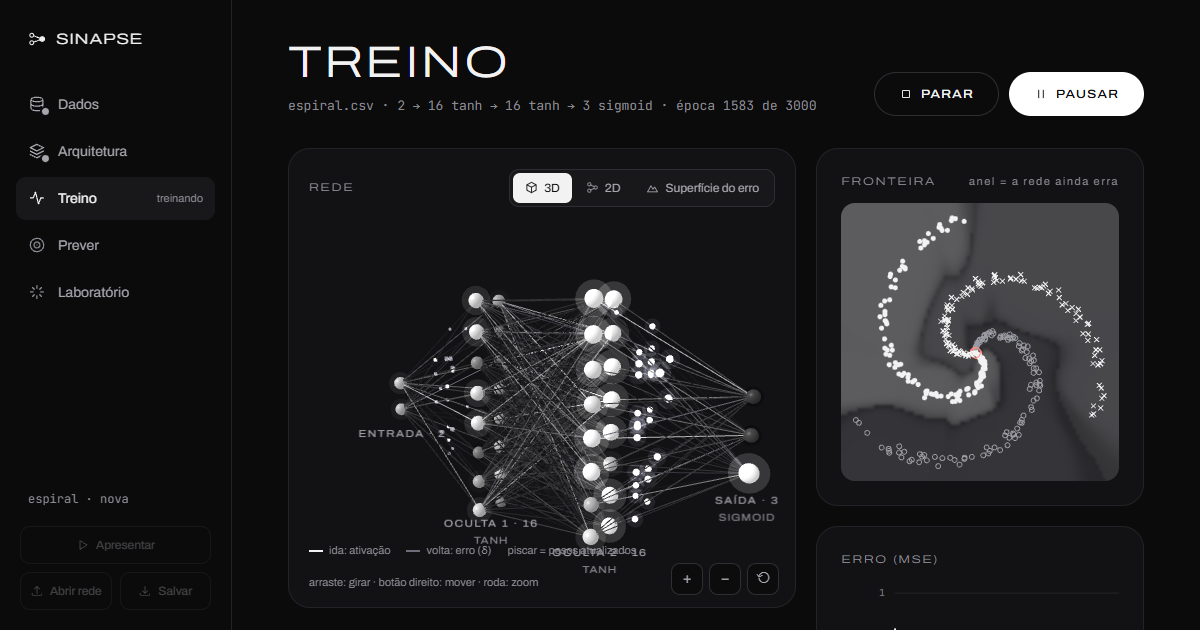
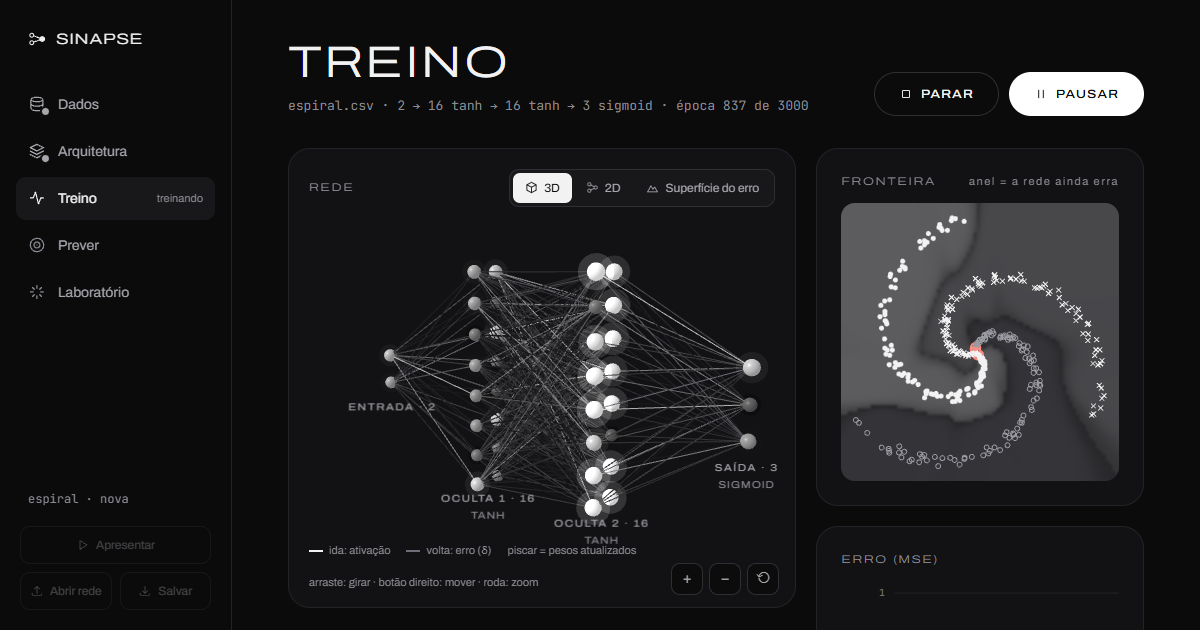
Ajustes antes de publicar: rótulos do 3D, segurança, ícone do iPhone e CSV grande
- 3D se encaixa acima da legenda (--stage-inset + setViewOffset): rótulos não ficam por cima
- vercel.json em public/ com CSP, nosniff, Referrer-Policy, Permissions-Policy e cache longo em /assets
- publicar.cmd com vercel@65.12.1 fixo
- apple-touch-icon 180x180
- CSV acima de 20 MB é recusado com aviso
- mini gráfico das execuções: escala certa quando o maior erro é 1
- og.png refeito com o 3D novo

diff --git a/src/ui/net3d.ts b/src/ui/net3d.ts
@@ -229,11 +229,26 @@ abstract class Stage {
     if (!document.hidden) this.loop();
   };
 
+  /** Faixa de baixo (px) coberta por legenda: a cena se centra e se encaixa acima dela. Vem de --stage-inset no CSS. */
+  private inset = 0;
+  private viewH = 1;
+
   private resize(): void {
     const w = this.el.clientWidth || 1;
     const h = this.el.clientHeight || 1;
+    const css = parseFloat(getComputedStyle(this.el).getPropertyValue('--stage-inset')) || 0;
+    this.inset = h > css * 4 ? css : 0; // palco baixo demais: ignora para não espremer a rede
+    this.viewH = h;
     this.renderer.setSize(w, h, false);
-    this.camera.aspect = w / h;
+    if (this.inset) {
+      // câmera de um quadro mais alto, mostrando só a parte de baixo dele: o centro sobe inset/2
+      const full = h + this.inset;
+      this.camera.aspect = w / full;
+      this.camera.setViewOffset(w, full, 0, this.inset, w, h);
+    } else {
+      this.camera.aspect = w / h;
+      this.camera.clearViewOffset();
+    }
     this.camera.updateProjectionMatrix();
     this.fit();
     this.render();
@@ -243,7 +258,9 @@ abstract class Stage {
     if (!this.fitBox || this.userZoom) return;
     const v = THREE.MathUtils.degToRad(this.camera.fov) / 2;
     const hz = Math.atan(Math.tan(v) * this.camera.aspect);
-    this.dist = Math.max(this.fitBox.w / Math.tan(hz), this.fitBox.h / Math.tan(v)) * 1.02 + 0.6;
+    // o fov vertical cobre h + inset px, mas a rede tem que caber em h − inset
+    const squeeze = this.inset ? (this.viewH + this.inset) / (this.viewH - this.inset) : 1;
+    this.dist = Math.max(this.fitBox.w / Math.tan(hz), (this.fitBox.h * squeeze) / Math.tan(v)) * 1.02 + 0.6;
   }
 
   protected abstract tick(dt: number): void;

diff --git a/src/ui/styles.css b/src/ui/styles.css
@@ -404,7 +404,7 @@ body.presenting main { padding-bottom: 160px; }
 .train-side { display: grid; gap: 20px; align-content: start; min-width: 0; }
 .card-head { display: flex; justify-content: space-between; align-items: center; gap: 12px; flex-wrap: wrap; position: relative; z-index: 1; }
 .stage-card { position: sticky; top: 24px; height: clamp(460px, calc(100dvh - 260px), 720px); padding: 20px; overflow: hidden; }
-.stage-host { position: relative; flex: 1; min-height: 0; margin: -8px -20px -20px; }
+.stage-host { position: relative; flex: 1; min-height: 0; margin: -8px -20px -20px; --stage-inset: 56px; /* legenda e botões de câmera embaixo: o 3D se encaixa acima */ }
 .stage-host.loading3d::after { content: ''; position: absolute; inset: 0; margin: auto; width: 28px; height: 28px; border-radius: 50%; border: 1.5px solid var(--line2); border-top-color: var(--t1); animation: spin 0.9s linear infinite; }
 @keyframes spin { to { transform: rotate(360deg); } }
 .stage3d { position: absolute; inset: 0; cursor: grab; animation: fadeIn 0.6s var(--ease); touch-action: none; }

diff --git a/src/ui/screens/treino.ts b/src/ui/screens/treino.ts
@@ -534,7 +534,9 @@ function runsCard(): HTMLElement | null {
     const v = c.filter((x) => Number.isFinite(x) && x > 0);
     if (v.length < 2) return h('span');
     const lo = Math.log10(Math.min(...v));
-    const hi = Math.log10(Math.max(...v)) || lo + 1;
+    // curva toda igual: abre uma década para não dividir por zero (antes, max = 1 dava log 0 e caía aqui por engano)
+    let hi = Math.log10(Math.max(...v));
+    if (hi === lo) hi = lo + 1;
     const pts = v.map((x, i) => `${((i / (v.length - 1)) * 80).toFixed(1)},${(2 + (1 - (Math.log10(x) - lo) / Math.max(1e-9, hi - lo)) * 18).toFixed(1)}`).join(' ');
     const el = document.createElementNS('http://www.w3.org/2000/svg', 'svg');
     el.setAttribute('viewBox', '0 0 80 22');

diff --git a/src/ui/screens/dados.ts b/src/ui/screens/dados.ts
@@ -40,9 +40,16 @@ export function loadTable(table: Table, fileName: string): void {
   syncArchWithData();
 }
 
+const MAX_CSV_MB = 20;
+
 async function readFile(file: File): Promise<void> {
   if (!/\.(csv|txt)$/i.test(file.name)) {
     toast('Escolha um arquivo .csv.', 'err');
+    return;
+  }
+  // a leitura e o treino rodam no navegador: um arquivo enorme travaria a página
+  if (file.size > MAX_CSV_MB * 1024 * 1024) {
+    toast(`O arquivo tem ${Math.round(file.size / 1024 / 1024)} MB; o máximo é ${MAX_CSV_MB} MB. Use uma amostra das linhas.`, 'err');
     return;
   }
   try {

diff --git a/index.html b/index.html
@@ -7,6 +7,7 @@
     <title>Sinapse · rede neural MLP</title>
     <meta name="description" content="Monte uma rede neural MLP, treine com o seu CSV e veja ela aprender ao vivo, em 3D." />
     <link rel="icon" href="favicon.svg" type="image/svg+xml" />
+    <link rel="apple-touch-icon" href="apple-touch-icon.png" />
     <!-- prévia do link (WhatsApp, Teams, e-mail); a imagem precisa de endereço completo -->
     <meta property="og:type" content="website" />
     <meta property="og:url" content="https://sinapse-mlp.vercel.app/" />
